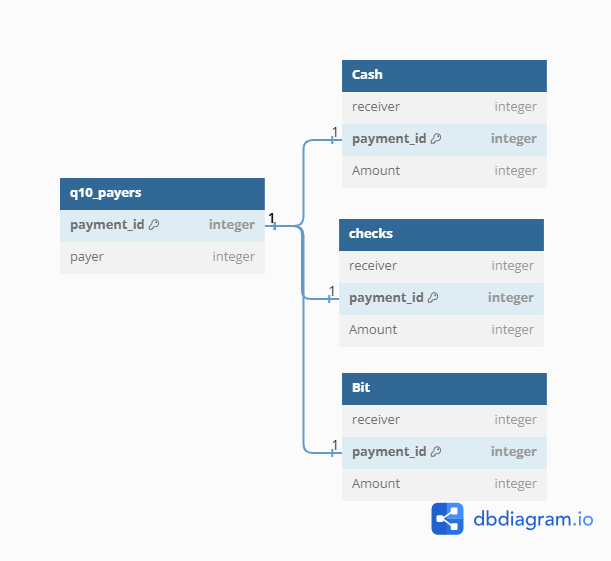
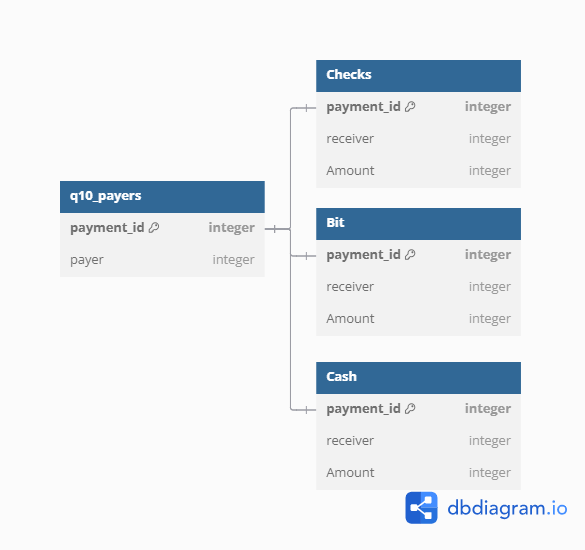
update erd

diff --git a/_site/questions/10-conditional-grouping/index.html b/_site/questions/10-conditional-grouping/index.html
@@ -389,114 +389,104 @@ cookieconsent.run({
 </summary>
 <div class="cell">
 <div class="sourceCode cell-code" id="cb3" style="max-height: 250px;overflow: scroll;"><pre class="sourceCode sql code-with-copy"><code class="sourceCode sql"><span id="cb3-1"><a href="#cb3-1" aria-hidden="true" tabindex="-1"></a></span>
-<span id="cb3-2"><a href="#cb3-2" aria-hidden="true" tabindex="-1"></a><span class="kw">DROP</span> <span class="kw">TABLE</span> <span class="cf">IF</span> <span class="kw">EXISTS</span> q10_payers;</span>
-<span id="cb3-3"><a href="#cb3-3" aria-hidden="true" tabindex="-1"></a></span>
-<span id="cb3-4"><a href="#cb3-4" aria-hidden="true" tabindex="-1"></a><span class="kw">CREATE</span> <span class="kw">TABLE</span> q10_payers (</span>
-<span id="cb3-5"><a href="#cb3-5" aria-hidden="true" tabindex="-1"></a>    payment_id  <span class="dt">INT</span>,</span>
-<span id="cb3-6"><a href="#cb3-6" aria-hidden="true" tabindex="-1"></a>    payer   <span class="dt">INT</span></span>
-<span id="cb3-7"><a href="#cb3-7" aria-hidden="true" tabindex="-1"></a>);</span>
-<span id="cb3-8"><a href="#cb3-8" aria-hidden="true" tabindex="-1"></a></span>
-<span id="cb3-9"><a href="#cb3-9" aria-hidden="true" tabindex="-1"></a><span class="kw">INSERT</span> <span class="kw">INTO</span> q10_payers (payment_id, payer ) <span class="kw">VALUES</span></span>
-<span id="cb3-10"><a href="#cb3-10" aria-hidden="true" tabindex="-1"></a>    (<span class="st">'1'</span>, <span class="st">'14 '</span>),</span>
-<span id="cb3-11"><a href="#cb3-11" aria-hidden="true" tabindex="-1"></a>    (<span class="st">'2'</span>, <span class="st">'14 '</span>),</span>
-<span id="cb3-12"><a href="#cb3-12" aria-hidden="true" tabindex="-1"></a>    (<span class="st">'3'</span>, <span class="st">'14 '</span>),</span>
-<span id="cb3-13"><a href="#cb3-13" aria-hidden="true" tabindex="-1"></a>    (<span class="st">'4'</span>, <span class="st">'1 '</span>),</span>
-<span id="cb3-14"><a href="#cb3-14" aria-hidden="true" tabindex="-1"></a>    (<span class="st">'5'</span>, <span class="st">'1 '</span>),</span>
-<span id="cb3-15"><a href="#cb3-15" aria-hidden="true" tabindex="-1"></a>    (<span class="st">'6'</span>, <span class="st">'6 '</span>),</span>
-<span id="cb3-16"><a href="#cb3-16" aria-hidden="true" tabindex="-1"></a>    (<span class="st">'7'</span>, <span class="st">'6 '</span>),</span>
-<span id="cb3-17"><a href="#cb3-17" aria-hidden="true" tabindex="-1"></a>    (<span class="st">'8'</span>, <span class="st">'7 '</span>),</span>
-<span id="cb3-18"><a href="#cb3-18" aria-hidden="true" tabindex="-1"></a>    (<span class="st">'9'</span>, <span class="st">'7 '</span>),</span>
-<span id="cb3-19"><a href="#cb3-19" aria-hidden="true" tabindex="-1"></a>    (<span class="st">'10'</span>, <span class="st">'3 '</span>),</span>
-<span id="cb3-20"><a href="#cb3-20" aria-hidden="true" tabindex="-1"></a>    (<span class="st">'11'</span>, <span class="st">'3 '</span>),</span>
-<span id="cb3-21"><a href="#cb3-21" aria-hidden="true" tabindex="-1"></a>    (<span class="st">'12'</span>, <span class="st">'3 '</span>),</span>
-<span id="cb3-22"><a href="#cb3-22" aria-hidden="true" tabindex="-1"></a>    (<span class="st">'13'</span>, <span class="st">'3 '</span>),</span>
-<span id="cb3-23"><a href="#cb3-23" aria-hidden="true" tabindex="-1"></a>    (<span class="st">'14'</span>, <span class="st">'7 '</span>),</span>
-<span id="cb3-24"><a href="#cb3-24" aria-hidden="true" tabindex="-1"></a>    (<span class="st">'15'</span>, <span class="st">'7 '</span>),</span>
-<span id="cb3-25"><a href="#cb3-25" aria-hidden="true" tabindex="-1"></a>    (<span class="st">'16'</span>, <span class="st">'7 '</span>),</span>
-<span id="cb3-26"><a href="#cb3-26" aria-hidden="true" tabindex="-1"></a>    (<span class="st">'17'</span>, <span class="st">'4 '</span>),</span>
-<span id="cb3-27"><a href="#cb3-27" aria-hidden="true" tabindex="-1"></a>    (<span class="st">'18'</span>, <span class="st">'12 '</span>),</span>
-<span id="cb3-28"><a href="#cb3-28" aria-hidden="true" tabindex="-1"></a>    (<span class="st">'19'</span>, <span class="st">'12 '</span>),</span>
-<span id="cb3-29"><a href="#cb3-29" aria-hidden="true" tabindex="-1"></a>    (<span class="st">'20'</span>, <span class="st">'12 '</span>);</span>
-<span id="cb3-30"><a href="#cb3-30" aria-hidden="true" tabindex="-1"></a></span>
-<span id="cb3-31"><a href="#cb3-31" aria-hidden="true" tabindex="-1"></a>    <span class="kw">drop</span> <span class="kw">table</span> <span class="cf">if</span> <span class="kw">exists</span> cash ;</span>
-<span id="cb3-32"><a href="#cb3-32" aria-hidden="true" tabindex="-1"></a></span>
-<span id="cb3-33"><a href="#cb3-33" aria-hidden="true" tabindex="-1"></a>    <span class="kw">CREATE</span> <span class="kw">TABLE</span> Cash (</span>
-<span id="cb3-34"><a href="#cb3-34" aria-hidden="true" tabindex="-1"></a>    receiver    <span class="dt">INT</span>,</span>
-<span id="cb3-35"><a href="#cb3-35" aria-hidden="true" tabindex="-1"></a>    payment_id  <span class="dt">INT</span>,</span>
-<span id="cb3-36"><a href="#cb3-36" aria-hidden="true" tabindex="-1"></a>    Amount  <span class="dt">INT</span></span>
-<span id="cb3-37"><a href="#cb3-37" aria-hidden="true" tabindex="-1"></a>);</span>
-<span id="cb3-38"><a href="#cb3-38" aria-hidden="true" tabindex="-1"></a></span>
-<span id="cb3-39"><a href="#cb3-39" aria-hidden="true" tabindex="-1"></a><span class="kw">INSERT</span> <span class="kw">INTO</span> Cash (receiver, payment_id, Amount ) <span class="kw">VALUES</span></span>
-<span id="cb3-40"><a href="#cb3-40" aria-hidden="true" tabindex="-1"></a>    (<span class="st">'7'</span>, <span class="st">'1'</span>, <span class="st">'45 '</span>),</span>
-<span id="cb3-41"><a href="#cb3-41" aria-hidden="true" tabindex="-1"></a>    (<span class="st">'1'</span>, <span class="st">'4'</span>, <span class="st">'4 '</span>),</span>
-<span id="cb3-42"><a href="#cb3-42" aria-hidden="true" tabindex="-1"></a>    (<span class="st">'3'</span>, <span class="st">'13'</span>, <span class="st">'84 '</span>),</span>
-<span id="cb3-43"><a href="#cb3-43" aria-hidden="true" tabindex="-1"></a>    (<span class="st">'7'</span>, <span class="st">'18'</span>, <span class="st">'94 '</span>),</span>
-<span id="cb3-44"><a href="#cb3-44" aria-hidden="true" tabindex="-1"></a>    (<span class="st">'7'</span>, <span class="st">'19'</span>, <span class="st">'25 '</span>),</span>
-<span id="cb3-45"><a href="#cb3-45" aria-hidden="true" tabindex="-1"></a>    (<span class="st">'7'</span>, <span class="st">'20'</span>, <span class="st">'80 '</span>);</span>
-<span id="cb3-46"><a href="#cb3-46" aria-hidden="true" tabindex="-1"></a></span>
-<span id="cb3-47"><a href="#cb3-47" aria-hidden="true" tabindex="-1"></a></span>
-<span id="cb3-48"><a href="#cb3-48" aria-hidden="true" tabindex="-1"></a>    <span class="kw">drop</span> <span class="kw">table</span> <span class="cf">if</span> <span class="kw">exists</span> bit;</span>
+<span id="cb3-2"><a href="#cb3-2" aria-hidden="true" tabindex="-1"></a><span class="kw">CREATE</span> <span class="kw">TABLE</span> q10_payers (</span>
+<span id="cb3-3"><a href="#cb3-3" aria-hidden="true" tabindex="-1"></a>    payment_id  <span class="dt">INT</span>,</span>
+<span id="cb3-4"><a href="#cb3-4" aria-hidden="true" tabindex="-1"></a>    payer   <span class="dt">INT</span></span>
+<span id="cb3-5"><a href="#cb3-5" aria-hidden="true" tabindex="-1"></a>);</span>
+<span id="cb3-6"><a href="#cb3-6" aria-hidden="true" tabindex="-1"></a></span>
+<span id="cb3-7"><a href="#cb3-7" aria-hidden="true" tabindex="-1"></a><span class="kw">INSERT</span> <span class="kw">INTO</span> q10_payers (payment_id, payer ) <span class="kw">VALUES</span></span>
+<span id="cb3-8"><a href="#cb3-8" aria-hidden="true" tabindex="-1"></a>    (<span class="st">'1'</span>, <span class="st">'14 '</span>),</span>
+<span id="cb3-9"><a href="#cb3-9" aria-hidden="true" tabindex="-1"></a>    (<span class="st">'2'</span>, <span class="st">'14 '</span>),</span>
+<span id="cb3-10"><a href="#cb3-10" aria-hidden="true" tabindex="-1"></a>    (<span class="st">'3'</span>, <span class="st">'14 '</span>),</span>
+<span id="cb3-11"><a href="#cb3-11" aria-hidden="true" tabindex="-1"></a>    (<span class="st">'4'</span>, <span class="st">'1 '</span>),</span>
+<span id="cb3-12"><a href="#cb3-12" aria-hidden="true" tabindex="-1"></a>    (<span class="st">'5'</span>, <span class="st">'1 '</span>),</span>
+<span id="cb3-13"><a href="#cb3-13" aria-hidden="true" tabindex="-1"></a>    (<span class="st">'6'</span>, <span class="st">'6 '</span>),</span>
+<span id="cb3-14"><a href="#cb3-14" aria-hidden="true" tabindex="-1"></a>    (<span class="st">'7'</span>, <span class="st">'6 '</span>),</span>
+<span id="cb3-15"><a href="#cb3-15" aria-hidden="true" tabindex="-1"></a>    (<span class="st">'8'</span>, <span class="st">'7 '</span>),</span>
+<span id="cb3-16"><a href="#cb3-16" aria-hidden="true" tabindex="-1"></a>    (<span class="st">'9'</span>, <span class="st">'7 '</span>),</span>
+<span id="cb3-17"><a href="#cb3-17" aria-hidden="true" tabindex="-1"></a>    (<span class="st">'10'</span>, <span class="st">'3 '</span>),</span>
+<span id="cb3-18"><a href="#cb3-18" aria-hidden="true" tabindex="-1"></a>    (<span class="st">'11'</span>, <span class="st">'3 '</span>),</span>
+<span id="cb3-19"><a href="#cb3-19" aria-hidden="true" tabindex="-1"></a>    (<span class="st">'12'</span>, <span class="st">'3 '</span>),</span>
+<span id="cb3-20"><a href="#cb3-20" aria-hidden="true" tabindex="-1"></a>    (<span class="st">'13'</span>, <span class="st">'3 '</span>),</span>
+<span id="cb3-21"><a href="#cb3-21" aria-hidden="true" tabindex="-1"></a>    (<span class="st">'14'</span>, <span class="st">'7 '</span>),</span>
+<span id="cb3-22"><a href="#cb3-22" aria-hidden="true" tabindex="-1"></a>    (<span class="st">'15'</span>, <span class="st">'7 '</span>),</span>
+<span id="cb3-23"><a href="#cb3-23" aria-hidden="true" tabindex="-1"></a>    (<span class="st">'16'</span>, <span class="st">'7 '</span>),</span>
+<span id="cb3-24"><a href="#cb3-24" aria-hidden="true" tabindex="-1"></a>    (<span class="st">'17'</span>, <span class="st">'4 '</span>),</span>
+<span id="cb3-25"><a href="#cb3-25" aria-hidden="true" tabindex="-1"></a>    (<span class="st">'18'</span>, <span class="st">'12 '</span>),</span>
+<span id="cb3-26"><a href="#cb3-26" aria-hidden="true" tabindex="-1"></a>    (<span class="st">'19'</span>, <span class="st">'12 '</span>),</span>
+<span id="cb3-27"><a href="#cb3-27" aria-hidden="true" tabindex="-1"></a>    (<span class="st">'20'</span>, <span class="st">'12 '</span>);</span>
+<span id="cb3-28"><a href="#cb3-28" aria-hidden="true" tabindex="-1"></a></span>
+<span id="cb3-29"><a href="#cb3-29" aria-hidden="true" tabindex="-1"></a>    <span class="kw">CREATE</span> <span class="kw">TABLE</span> Cash (</span>
+<span id="cb3-30"><a href="#cb3-30" aria-hidden="true" tabindex="-1"></a>    receiver    <span class="dt">INT</span>,</span>
+<span id="cb3-31"><a href="#cb3-31" aria-hidden="true" tabindex="-1"></a>    payment_id  <span class="dt">INT</span>,</span>
+<span id="cb3-32"><a href="#cb3-32" aria-hidden="true" tabindex="-1"></a>    Amount  <span class="dt">INT</span></span>
+<span id="cb3-33"><a href="#cb3-33" aria-hidden="true" tabindex="-1"></a>);</span>
+<span id="cb3-34"><a href="#cb3-34" aria-hidden="true" tabindex="-1"></a></span>
+<span id="cb3-35"><a href="#cb3-35" aria-hidden="true" tabindex="-1"></a><span class="kw">INSERT</span> <span class="kw">INTO</span> Cash (payment_id, receiver,  Amount ) <span class="kw">VALUES</span></span>
+<span id="cb3-36"><a href="#cb3-36" aria-hidden="true" tabindex="-1"></a>    (<span class="st">'1'</span>, <span class="st">'7'</span>, <span class="st">'45 '</span>),</span>
+<span id="cb3-37"><a href="#cb3-37" aria-hidden="true" tabindex="-1"></a>    (<span class="st">'4'</span>, <span class="st">'1'</span>, <span class="st">'4 '</span>),</span>
+<span id="cb3-38"><a href="#cb3-38" aria-hidden="true" tabindex="-1"></a>    (<span class="st">'13'</span>,<span class="st">'3'</span>,  <span class="st">'84 '</span>),</span>
+<span id="cb3-39"><a href="#cb3-39" aria-hidden="true" tabindex="-1"></a>    (<span class="st">'18'</span>,<span class="st">'7'</span>,  <span class="st">'94 '</span>),</span>
+<span id="cb3-40"><a href="#cb3-40" aria-hidden="true" tabindex="-1"></a>    (<span class="st">'19'</span>,<span class="st">'7'</span>,  <span class="st">'25 '</span>),</span>
+<span id="cb3-41"><a href="#cb3-41" aria-hidden="true" tabindex="-1"></a>    (<span class="st">'20'</span>,<span class="st">'7'</span>,  <span class="st">'80 '</span>);</span>
+<span id="cb3-42"><a href="#cb3-42" aria-hidden="true" tabindex="-1"></a></span>
+<span id="cb3-43"><a href="#cb3-43" aria-hidden="true" tabindex="-1"></a></span>
+<span id="cb3-44"><a href="#cb3-44" aria-hidden="true" tabindex="-1"></a>    <span class="kw">CREATE</span> <span class="kw">TABLE</span> Bit (</span>
+<span id="cb3-45"><a href="#cb3-45" aria-hidden="true" tabindex="-1"></a>    receiver    <span class="dt">INT</span>,</span>
+<span id="cb3-46"><a href="#cb3-46" aria-hidden="true" tabindex="-1"></a>    payment_id  <span class="dt">INT</span>,</span>
+<span id="cb3-47"><a href="#cb3-47" aria-hidden="true" tabindex="-1"></a>    amount  <span class="dt">INT</span></span>
+<span id="cb3-48"><a href="#cb3-48" aria-hidden="true" tabindex="-1"></a>);</span>
 <span id="cb3-49"><a href="#cb3-49" aria-hidden="true" tabindex="-1"></a></span>
-<span id="cb3-50"><a href="#cb3-50" aria-hidden="true" tabindex="-1"></a>    <span class="kw">CREATE</span> <span class="kw">TABLE</span> Bit (</span>
-<span id="cb3-51"><a href="#cb3-51" aria-hidden="true" tabindex="-1"></a>    receiver    <span class="dt">INT</span>,</span>
-<span id="cb3-52"><a href="#cb3-52" aria-hidden="true" tabindex="-1"></a>    payment_id  <span class="dt">INT</span>,</span>
-<span id="cb3-53"><a href="#cb3-53" aria-hidden="true" tabindex="-1"></a>    amount  <span class="dt">INT</span></span>
-<span id="cb3-54"><a href="#cb3-54" aria-hidden="true" tabindex="-1"></a>);</span>
-<span id="cb3-55"><a href="#cb3-55" aria-hidden="true" tabindex="-1"></a></span>
-<span id="cb3-56"><a href="#cb3-56" aria-hidden="true" tabindex="-1"></a><span class="kw">INSERT</span> <span class="kw">INTO</span> Bit (receiver, payment_id, amount ) <span class="kw">VALUES</span></span>
-<span id="cb3-57"><a href="#cb3-57" aria-hidden="true" tabindex="-1"></a>    (<span class="st">'7'</span>, <span class="st">'2'</span>, <span class="st">'17 '</span>),</span>
-<span id="cb3-58"><a href="#cb3-58" aria-hidden="true" tabindex="-1"></a>    (<span class="st">'7'</span>, <span class="st">'5'</span>, <span class="st">'89 '</span>),</span>
-<span id="cb3-59"><a href="#cb3-59" aria-hidden="true" tabindex="-1"></a>    (<span class="st">'1'</span>, <span class="st">'10'</span>, <span class="st">'31 '</span>),</span>
-<span id="cb3-60"><a href="#cb3-60" aria-hidden="true" tabindex="-1"></a>    (<span class="st">'22'</span>, <span class="st">'14'</span>, <span class="st">'23 '</span>),</span>
-<span id="cb3-61"><a href="#cb3-61" aria-hidden="true" tabindex="-1"></a>    (<span class="st">'22'</span>, <span class="st">'16'</span>, <span class="st">'63 '</span>),</span>
-<span id="cb3-62"><a href="#cb3-62" aria-hidden="true" tabindex="-1"></a>    (<span class="st">'7'</span>, <span class="st">'17'</span>, <span class="st">'75 '</span>);</span>
+<span id="cb3-50"><a href="#cb3-50" aria-hidden="true" tabindex="-1"></a><span class="kw">INSERT</span> <span class="kw">INTO</span> Bit (payment_id, receiver, amount ) <span class="kw">VALUES</span></span>
+<span id="cb3-51"><a href="#cb3-51" aria-hidden="true" tabindex="-1"></a>    (<span class="st">'2'</span>, <span class="st">'7'</span>, <span class="st">'17 '</span>),</span>
+<span id="cb3-52"><a href="#cb3-52" aria-hidden="true" tabindex="-1"></a>    (<span class="st">'5'</span>, <span class="st">'7'</span>, <span class="st">'89 '</span>),</span>
+<span id="cb3-53"><a href="#cb3-53" aria-hidden="true" tabindex="-1"></a>    (<span class="st">'10'</span>,<span class="st">'1'</span>,  <span class="st">'31 '</span>),</span>
+<span id="cb3-54"><a href="#cb3-54" aria-hidden="true" tabindex="-1"></a>    (<span class="st">'14'</span>,<span class="st">'22'</span>, <span class="st">'23 '</span>),</span>
+<span id="cb3-55"><a href="#cb3-55" aria-hidden="true" tabindex="-1"></a>    (<span class="st">'16'</span>,<span class="st">'22'</span>, <span class="st">'63 '</span>),</span>
+<span id="cb3-56"><a href="#cb3-56" aria-hidden="true" tabindex="-1"></a>    (<span class="st">'17'</span>,<span class="st">'7'</span>,  <span class="st">'75 '</span>);</span>
+<span id="cb3-57"><a href="#cb3-57" aria-hidden="true" tabindex="-1"></a></span>
+<span id="cb3-58"><a href="#cb3-58" aria-hidden="true" tabindex="-1"></a>    <span class="kw">CREATE</span> <span class="kw">TABLE</span> checks (</span>
+<span id="cb3-59"><a href="#cb3-59" aria-hidden="true" tabindex="-1"></a>    receiver    <span class="dt">INT</span>,</span>
+<span id="cb3-60"><a href="#cb3-60" aria-hidden="true" tabindex="-1"></a>    payment_id  <span class="dt">INT</span>,</span>
+<span id="cb3-61"><a href="#cb3-61" aria-hidden="true" tabindex="-1"></a>    amount  <span class="dt">INT</span></span>
+<span id="cb3-62"><a href="#cb3-62" aria-hidden="true" tabindex="-1"></a>);</span>
 <span id="cb3-63"><a href="#cb3-63" aria-hidden="true" tabindex="-1"></a></span>
-<span id="cb3-64"><a href="#cb3-64" aria-hidden="true" tabindex="-1"></a>    <span class="kw">drop</span> <span class="kw">table</span> <span class="cf">if</span> <span class="kw">exists</span> checks;</span>
-<span id="cb3-65"><a href="#cb3-65" aria-hidden="true" tabindex="-1"></a></span>
-<span id="cb3-66"><a href="#cb3-66" aria-hidden="true" tabindex="-1"></a>    <span class="kw">CREATE</span> <span class="kw">TABLE</span> checks (</span>
-<span id="cb3-67"><a href="#cb3-67" aria-hidden="true" tabindex="-1"></a>    receiver    <span class="dt">INT</span>,</span>
-<span id="cb3-68"><a href="#cb3-68" aria-hidden="true" tabindex="-1"></a>    payment_id  <span class="dt">INT</span>,</span>
-<span id="cb3-69"><a href="#cb3-69" aria-hidden="true" tabindex="-1"></a>    amount  <span class="dt">INT</span></span>
-<span id="cb3-70"><a href="#cb3-70" aria-hidden="true" tabindex="-1"></a>);</span>
-<span id="cb3-71"><a href="#cb3-71" aria-hidden="true" tabindex="-1"></a></span>
-<span id="cb3-72"><a href="#cb3-72" aria-hidden="true" tabindex="-1"></a><span class="kw">INSERT</span> <span class="kw">INTO</span> Checks (receiver, payment_id, amount ) <span class="kw">VALUES</span></span>
-<span id="cb3-73"><a href="#cb3-73" aria-hidden="true" tabindex="-1"></a>    (<span class="st">'7'</span>, <span class="st">'7'</span>, <span class="st">'47 '</span>),</span>
-<span id="cb3-74"><a href="#cb3-74" aria-hidden="true" tabindex="-1"></a>    (<span class="st">'21'</span>, <span class="st">'8'</span>, <span class="st">'42 '</span>),</span>
-<span id="cb3-75"><a href="#cb3-75" aria-hidden="true" tabindex="-1"></a>    (<span class="st">'22'</span>, <span class="st">'15'</span>, <span class="st">'1 '</span>),</span>
-<span id="cb3-76"><a href="#cb3-76" aria-hidden="true" tabindex="-1"></a>    (<span class="st">'7'</span>, <span class="st">'6'</span>, <span class="st">'26 '</span>);</span>
-<span id="cb3-77"><a href="#cb3-77" aria-hidden="true" tabindex="-1"></a></span>
+<span id="cb3-64"><a href="#cb3-64" aria-hidden="true" tabindex="-1"></a><span class="kw">INSERT</span> <span class="kw">INTO</span> Checks (payment_id, receiver, amount ) <span class="kw">VALUES</span></span>
+<span id="cb3-65"><a href="#cb3-65" aria-hidden="true" tabindex="-1"></a>    (<span class="st">'7'</span>, <span class="st">'7'</span>, <span class="st">'47 '</span>),</span>
+<span id="cb3-66"><a href="#cb3-66" aria-hidden="true" tabindex="-1"></a>    (<span class="st">'8'</span>, <span class="st">'21'</span>,<span class="st">'42 '</span>),</span>
+<span id="cb3-67"><a href="#cb3-67" aria-hidden="true" tabindex="-1"></a>    (<span class="st">'15'</span>,<span class="st">'22'</span>, <span class="st">'1 '</span>),</span>
+<span id="cb3-68"><a href="#cb3-68" aria-hidden="true" tabindex="-1"></a>    (<span class="st">'6'</span>, <span class="st">'7'</span>, <span class="st">'26 '</span>);</span>
+<span id="cb3-69"><a href="#cb3-69" aria-hidden="true" tabindex="-1"></a></span>
+<span id="cb3-70"><a href="#cb3-70" aria-hidden="true" tabindex="-1"></a></span>
+<span id="cb3-71"><a href="#cb3-71" aria-hidden="true" tabindex="-1"></a><span class="kw">CREATE</span> <span class="kw">TABLE</span> q10_payments (</span>
+<span id="cb3-72"><a href="#cb3-72" aria-hidden="true" tabindex="-1"></a>    payer   <span class="dt">INT</span>,</span>
+<span id="cb3-73"><a href="#cb3-73" aria-hidden="true" tabindex="-1"></a>    receiver    <span class="dt">INT</span>,</span>
+<span id="cb3-74"><a href="#cb3-74" aria-hidden="true" tabindex="-1"></a>    payment_id  <span class="dt">INT</span>,</span>
+<span id="cb3-75"><a href="#cb3-75" aria-hidden="true" tabindex="-1"></a>    Transaction_date    <span class="dt">DATE</span>,</span>
+<span id="cb3-76"><a href="#cb3-76" aria-hidden="true" tabindex="-1"></a>    Amount  <span class="dt">INT</span></span>
+<span id="cb3-77"><a href="#cb3-77" aria-hidden="true" tabindex="-1"></a>);</span>
 <span id="cb3-78"><a href="#cb3-78" aria-hidden="true" tabindex="-1"></a></span>
-<span id="cb3-79"><a href="#cb3-79" aria-hidden="true" tabindex="-1"></a><span class="kw">drop</span> <span class="kw">table</span> q10_payments;</span>
-<span id="cb3-80"><a href="#cb3-80" aria-hidden="true" tabindex="-1"></a></span>
-<span id="cb3-81"><a href="#cb3-81" aria-hidden="true" tabindex="-1"></a><span class="kw">CREATE</span> <span class="kw">TABLE</span> q10_payments (</span>
-<span id="cb3-82"><a href="#cb3-82" aria-hidden="true" tabindex="-1"></a>    payer   <span class="dt">INT</span>,</span>
-<span id="cb3-83"><a href="#cb3-83" aria-hidden="true" tabindex="-1"></a>    receiver    <span class="dt">INT</span>,</span>
-<span id="cb3-84"><a href="#cb3-84" aria-hidden="true" tabindex="-1"></a>    payment_id  <span class="dt">INT</span>,</span>
-<span id="cb3-85"><a href="#cb3-85" aria-hidden="true" tabindex="-1"></a>    Transaction_date    <span class="dt">DATE</span>,</span>
-<span id="cb3-86"><a href="#cb3-86" aria-hidden="true" tabindex="-1"></a>    Amount  <span class="dt">INT</span></span>
-<span id="cb3-87"><a href="#cb3-87" aria-hidden="true" tabindex="-1"></a>);</span>
-<span id="cb3-88"><a href="#cb3-88" aria-hidden="true" tabindex="-1"></a></span>
-<span id="cb3-89"><a href="#cb3-89" aria-hidden="true" tabindex="-1"></a><span class="kw">INSERT</span> <span class="kw">INTO</span> q10_payments (payer, receiver, payment_id, Transaction_date, Amount ) <span class="kw">VALUES</span></span>
-<span id="cb3-90"><a href="#cb3-90" aria-hidden="true" tabindex="-1"></a>    (<span class="st">'14'</span>, <span class="st">'7'</span>, <span class="st">'1'</span>, <span class="st">'2020-06-30'</span>, <span class="st">'45'</span>),</span>
-<span id="cb3-91"><a href="#cb3-91" aria-hidden="true" tabindex="-1"></a>    (<span class="st">'14'</span>, <span class="st">'7'</span>, <span class="st">'2'</span>, <span class="st">'2020-07-28'</span>, <span class="st">'17'</span>),</span>
-<span id="cb3-92"><a href="#cb3-92" aria-hidden="true" tabindex="-1"></a>    (<span class="st">'14'</span>, <span class="st">'7'</span>, <span class="st">'3'</span>, <span class="st">'2020-07-29'</span>, <span class="st">'24'</span>),</span>
-<span id="cb3-93"><a href="#cb3-93" aria-hidden="true" tabindex="-1"></a>    (<span class="st">'1'</span>, <span class="st">'7'</span>, <span class="st">'4'</span>, <span class="st">'2020-08-27'</span>, <span class="st">'4'</span>),</span>
-<span id="cb3-94"><a href="#cb3-94" aria-hidden="true" tabindex="-1"></a>    (<span class="st">'1'</span>, <span class="st">'7'</span>, <span class="st">'5'</span>, <span class="st">'2020-08-28'</span>, <span class="st">'89'</span>),</span>
-<span id="cb3-95"><a href="#cb3-95" aria-hidden="true" tabindex="-1"></a>    (<span class="st">'6'</span>, <span class="st">'7'</span>, <span class="st">'6'</span>, <span class="st">'2020-08-29'</span>, <span class="st">'26'</span>),</span>
-<span id="cb3-96"><a href="#cb3-96" aria-hidden="true" tabindex="-1"></a>    (<span class="st">'6'</span>, <span class="st">'7'</span>, <span class="st">'7'</span>, <span class="st">'2020-08-30'</span>, <span class="st">'47'</span>),</span>
-<span id="cb3-97"><a href="#cb3-97" aria-hidden="true" tabindex="-1"></a>    (<span class="st">'7'</span>, <span class="st">'21'</span>, <span class="st">'8'</span>, <span class="st">'2020-08-31'</span>, <span class="st">'42'</span>),</span>
-<span id="cb3-98"><a href="#cb3-98" aria-hidden="true" tabindex="-1"></a>    (<span class="st">'7'</span>, <span class="st">'21'</span>, <span class="st">'9'</span>, <span class="st">'2020-09-01'</span>, <span class="st">'52'</span>),</span>
-<span id="cb3-99"><a href="#cb3-99" aria-hidden="true" tabindex="-1"></a>    (<span class="st">'3'</span>, <span class="st">'1'</span>, <span class="st">'10'</span>, <span class="st">'2020-09-04'</span>, <span class="st">'31'</span>),</span>
-<span id="cb3-100"><a href="#cb3-100" aria-hidden="true" tabindex="-1"></a>    (<span class="st">'3'</span>, <span class="st">'1'</span>, <span class="st">'11'</span>, <span class="st">'2020-09-05'</span>, <span class="st">'92'</span>),</span>
-<span id="cb3-101"><a href="#cb3-101" aria-hidden="true" tabindex="-1"></a>    (<span class="st">'3'</span>, <span class="st">'1'</span>, <span class="st">'12'</span>, <span class="st">'2020-09-06'</span>, <span class="st">'54'</span>),</span>
-<span id="cb3-102"><a href="#cb3-102" aria-hidden="true" tabindex="-1"></a>    (<span class="st">'3'</span>, <span class="st">'1'</span>, <span class="st">'13'</span>, <span class="st">'2020-09-07'</span>, <span class="st">'84'</span>),</span>
-<span id="cb3-103"><a href="#cb3-103" aria-hidden="true" tabindex="-1"></a>    (<span class="st">'7'</span>, <span class="st">'22'</span>, <span class="st">'14'</span>, <span class="st">'2020-09-08'</span>, <span class="st">'23'</span>),</span>
-<span id="cb3-104"><a href="#cb3-104" aria-hidden="true" tabindex="-1"></a>    (<span class="st">'7'</span>, <span class="st">'22'</span>, <span class="st">'15'</span>, <span class="st">'2020-09-09'</span>, <span class="st">'1'</span>),</span>
-<span id="cb3-105"><a href="#cb3-105" aria-hidden="true" tabindex="-1"></a>    (<span class="st">'7'</span>, <span class="st">'22'</span>, <span class="st">'16'</span>, <span class="st">'2020-09-10'</span>, <span class="st">'63'</span>),</span>
-<span id="cb3-106"><a href="#cb3-106" aria-hidden="true" tabindex="-1"></a>    (<span class="st">'4'</span>, <span class="st">'7'</span>, <span class="st">'17'</span>, <span class="st">'2021-05-28'</span>, <span class="st">'75'</span>),</span>
-<span id="cb3-107"><a href="#cb3-107" aria-hidden="true" tabindex="-1"></a>    (<span class="st">'12'</span>, <span class="st">'7'</span>, <span class="st">'18'</span>, <span class="st">'2021-06-30'</span>, <span class="st">'94'</span>),</span>
-<span id="cb3-108"><a href="#cb3-108" aria-hidden="true" tabindex="-1"></a>    (<span class="st">'12'</span>, <span class="st">'7'</span>, <span class="st">'19'</span>, <span class="st">'2021-07-28'</span>, <span class="st">'25'</span>),</span>
-<span id="cb3-109"><a href="#cb3-109" aria-hidden="true" tabindex="-1"></a>    (<span class="st">'12'</span>, <span class="st">'7'</span>, <span class="st">'20'</span>, <span class="st">'2021-07-29'</span>, <span class="st">'80'</span>);</span></code><button title="Copy to Clipboard" class="code-copy-button"><i class="bi"></i></button></pre></div>
+<span id="cb3-79"><a href="#cb3-79" aria-hidden="true" tabindex="-1"></a><span class="kw">INSERT</span> <span class="kw">INTO</span> q10_payments (payer, receiver, payment_id, Transaction_date, Amount ) <span class="kw">VALUES</span></span>
+<span id="cb3-80"><a href="#cb3-80" aria-hidden="true" tabindex="-1"></a>    (<span class="st">'14'</span>, <span class="st">'7'</span>, <span class="st">'1'</span>, <span class="st">'2020-06-30'</span>, <span class="st">'45'</span>),</span>
+<span id="cb3-81"><a href="#cb3-81" aria-hidden="true" tabindex="-1"></a>    (<span class="st">'14'</span>, <span class="st">'7'</span>, <span class="st">'2'</span>, <span class="st">'2020-07-28'</span>, <span class="st">'17'</span>),</span>
+<span id="cb3-82"><a href="#cb3-82" aria-hidden="true" tabindex="-1"></a>    (<span class="st">'14'</span>, <span class="st">'7'</span>, <span class="st">'3'</span>, <span class="st">'2020-07-29'</span>, <span class="st">'24'</span>),</span>
+<span id="cb3-83"><a href="#cb3-83" aria-hidden="true" tabindex="-1"></a>    (<span class="st">'1'</span>, <span class="st">'7'</span>, <span class="st">'4'</span>, <span class="st">'2020-08-27'</span>, <span class="st">'4'</span>),</span>
+<span id="cb3-84"><a href="#cb3-84" aria-hidden="true" tabindex="-1"></a>    (<span class="st">'1'</span>, <span class="st">'7'</span>, <span class="st">'5'</span>, <span class="st">'2020-08-28'</span>, <span class="st">'89'</span>),</span>
+<span id="cb3-85"><a href="#cb3-85" aria-hidden="true" tabindex="-1"></a>    (<span class="st">'6'</span>, <span class="st">'7'</span>, <span class="st">'6'</span>, <span class="st">'2020-08-29'</span>, <span class="st">'26'</span>),</span>
+<span id="cb3-86"><a href="#cb3-86" aria-hidden="true" tabindex="-1"></a>    (<span class="st">'6'</span>, <span class="st">'7'</span>, <span class="st">'7'</span>, <span class="st">'2020-08-30'</span>, <span class="st">'47'</span>),</span>
+<span id="cb3-87"><a href="#cb3-87" aria-hidden="true" tabindex="-1"></a>    (<span class="st">'7'</span>, <span class="st">'21'</span>, <span class="st">'8'</span>, <span class="st">'2020-08-31'</span>, <span class="st">'42'</span>),</span>
+<span id="cb3-88"><a href="#cb3-88" aria-hidden="true" tabindex="-1"></a>    (<span class="st">'7'</span>, <span class="st">'21'</span>, <span class="st">'9'</span>, <span class="st">'2020-09-01'</span>, <span class="st">'52'</span>),</span>
+<span id="cb3-89"><a href="#cb3-89" aria-hidden="true" tabindex="-1"></a>    (<span class="st">'3'</span>, <span class="st">'1'</span>, <span class="st">'10'</span>, <span class="st">'2020-09-04'</span>, <span class="st">'31'</span>),</span>
+<span id="cb3-90"><a href="#cb3-90" aria-hidden="true" tabindex="-1"></a>    (<span class="st">'3'</span>, <span class="st">'1'</span>, <span class="st">'11'</span>, <span class="st">'2020-09-05'</span>, <span class="st">'92'</span>),</span>
+<span id="cb3-91"><a href="#cb3-91" aria-hidden="true" tabindex="-1"></a>    (<span class="st">'3'</span>, <span class="st">'1'</span>, <span class="st">'12'</span>, <span class="st">'2020-09-06'</span>, <span class="st">'54'</span>),</span>
+<span id="cb3-92"><a href="#cb3-92" aria-hidden="true" tabindex="-1"></a>    (<span class="st">'3'</span>, <span class="st">'1'</span>, <span class="st">'13'</span>, <span class="st">'2020-09-07'</span>, <span class="st">'84'</span>),</span>
+<span id="cb3-93"><a href="#cb3-93" aria-hidden="true" tabindex="-1"></a>    (<span class="st">'7'</span>, <span class="st">'22'</span>, <span class="st">'14'</span>, <span class="st">'2020-09-08'</span>, <span class="st">'23'</span>),</span>
+<span id="cb3-94"><a href="#cb3-94" aria-hidden="true" tabindex="-1"></a>    (<span class="st">'7'</span>, <span class="st">'22'</span>, <span class="st">'15'</span>, <span class="st">'2020-09-09'</span>, <span class="st">'1'</span>),</span>
+<span id="cb3-95"><a href="#cb3-95" aria-hidden="true" tabindex="-1"></a>    (<span class="st">'7'</span>, <span class="st">'22'</span>, <span class="st">'16'</span>, <span class="st">'2020-09-10'</span>, <span class="st">'63'</span>),</span>
+<span id="cb3-96"><a href="#cb3-96" aria-hidden="true" tabindex="-1"></a>    (<span class="st">'4'</span>, <span class="st">'7'</span>, <span class="st">'17'</span>, <span class="st">'2021-05-28'</span>, <span class="st">'75'</span>),</span>
+<span id="cb3-97"><a href="#cb3-97" aria-hidden="true" tabindex="-1"></a>    (<span class="st">'12'</span>, <span class="st">'7'</span>, <span class="st">'18'</span>, <span class="st">'2021-06-30'</span>, <span class="st">'94'</span>),</span>
+<span id="cb3-98"><a href="#cb3-98" aria-hidden="true" tabindex="-1"></a>    (<span class="st">'12'</span>, <span class="st">'7'</span>, <span class="st">'19'</span>, <span class="st">'2021-07-28'</span>, <span class="st">'25'</span>),</span>
+<span id="cb3-99"><a href="#cb3-99" aria-hidden="true" tabindex="-1"></a>    (<span class="st">'12'</span>, <span class="st">'7'</span>, <span class="st">'20'</span>, <span class="st">'2021-07-29'</span>, <span class="st">'80'</span>);</span></code><button title="Copy to Clipboard" class="code-copy-button"><i class="bi"></i></button></pre></div>
 </div>
 </details>
 </section>
